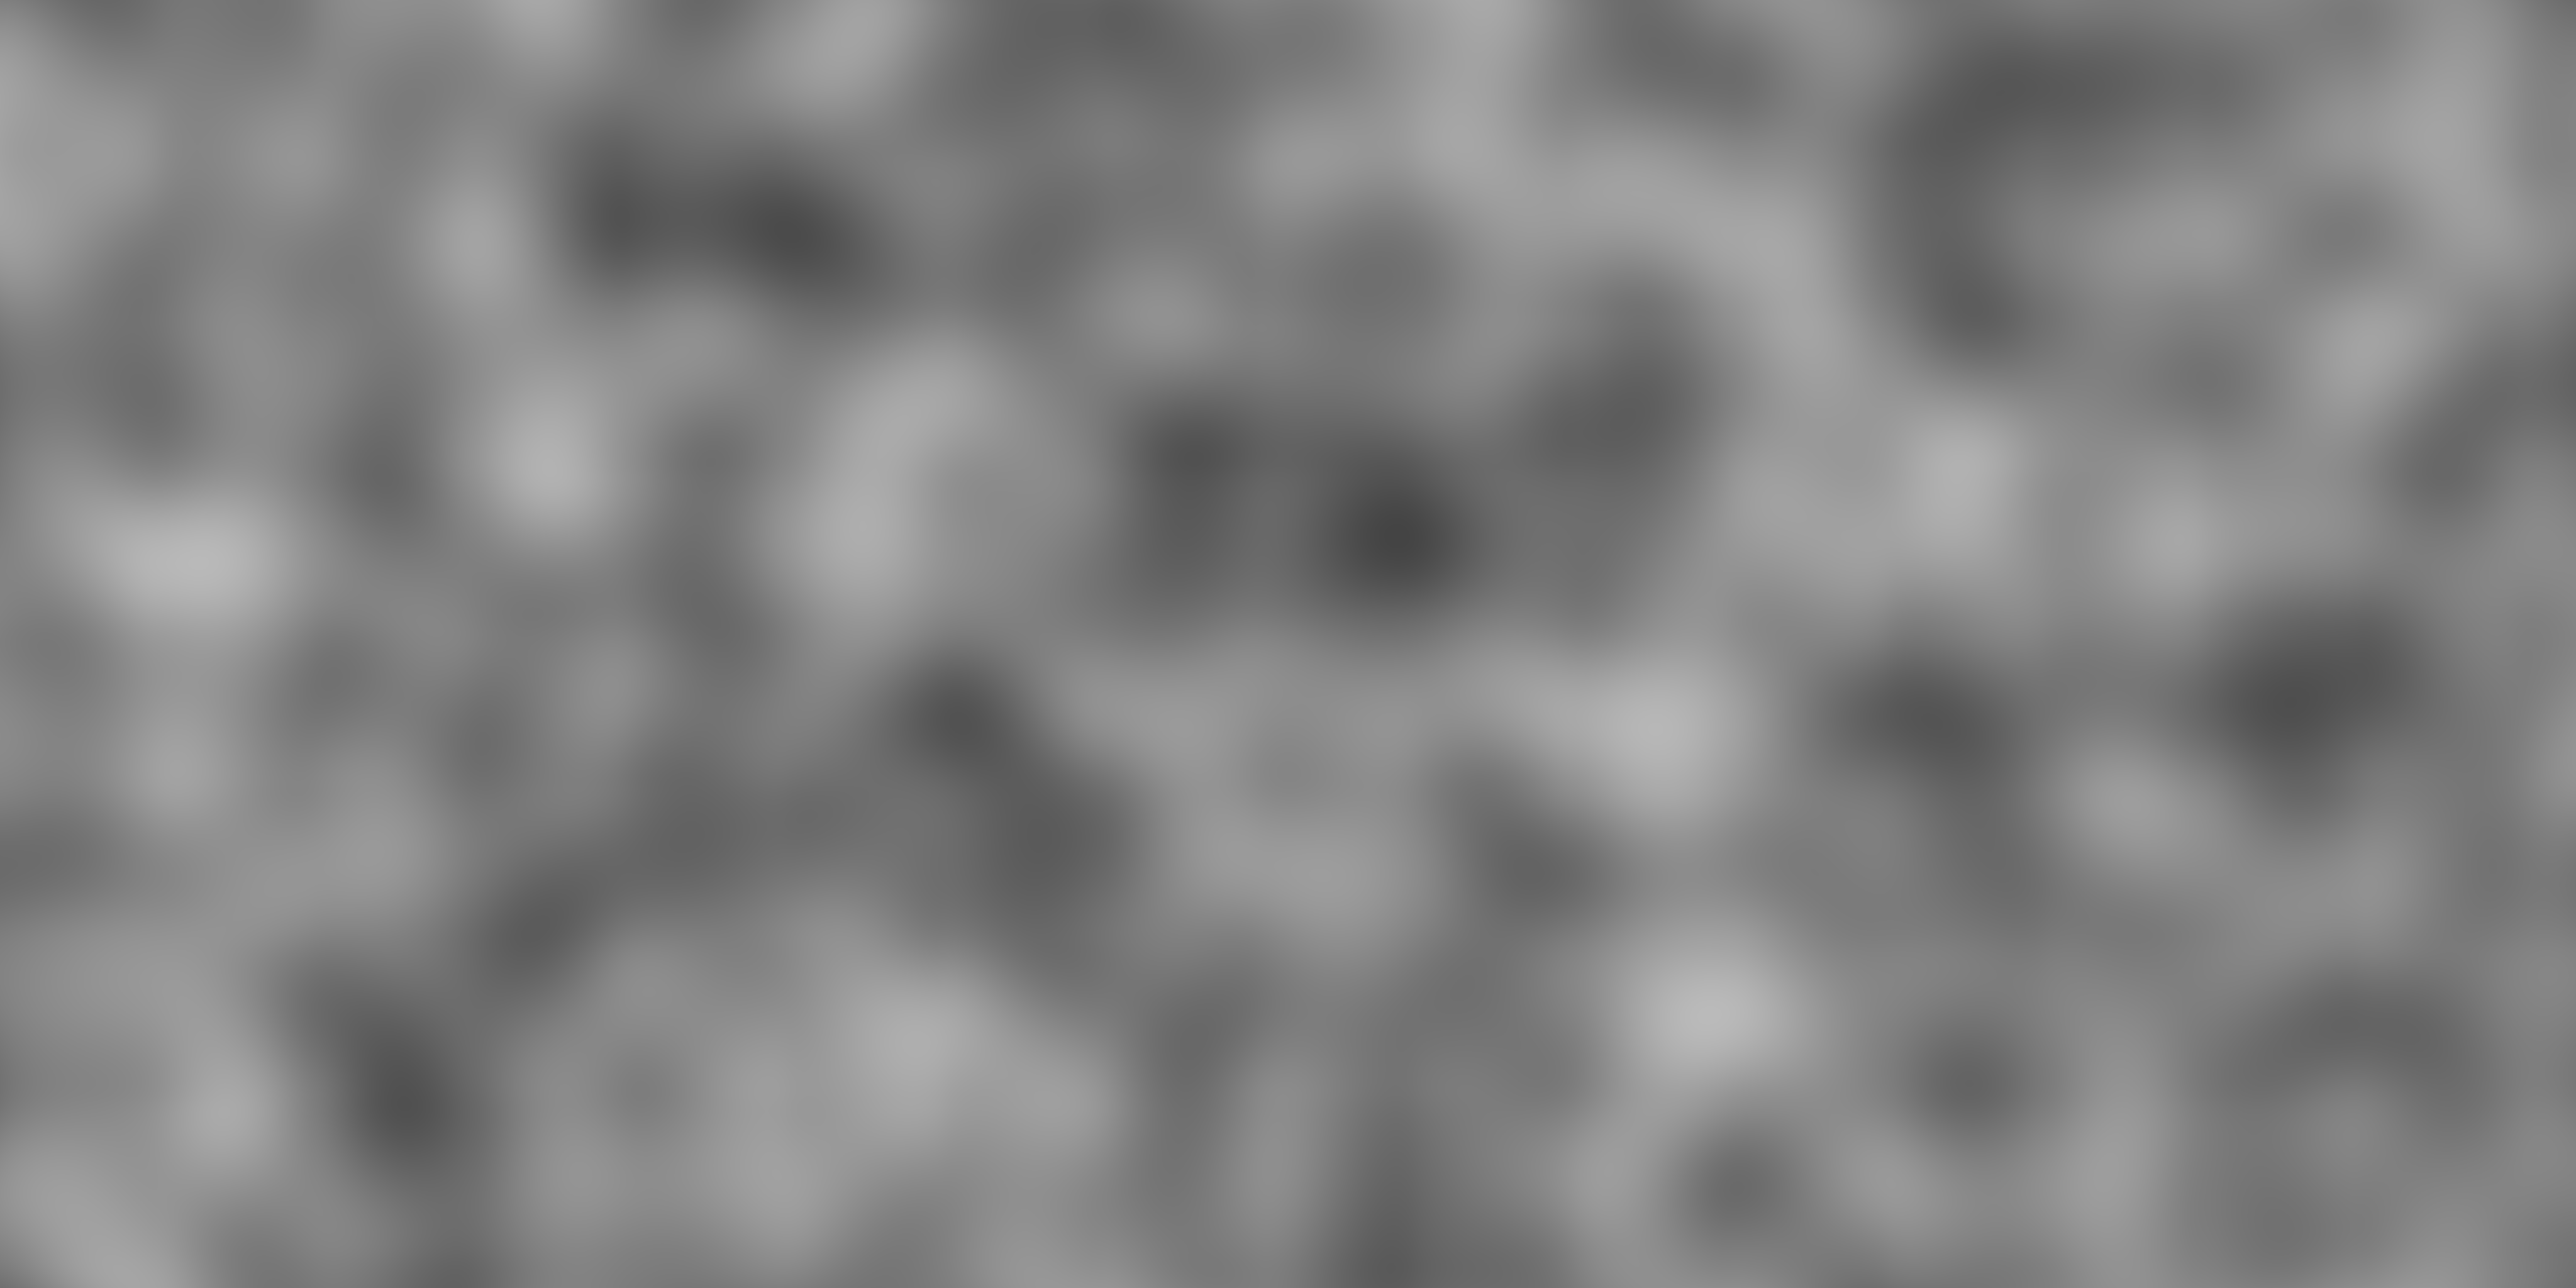
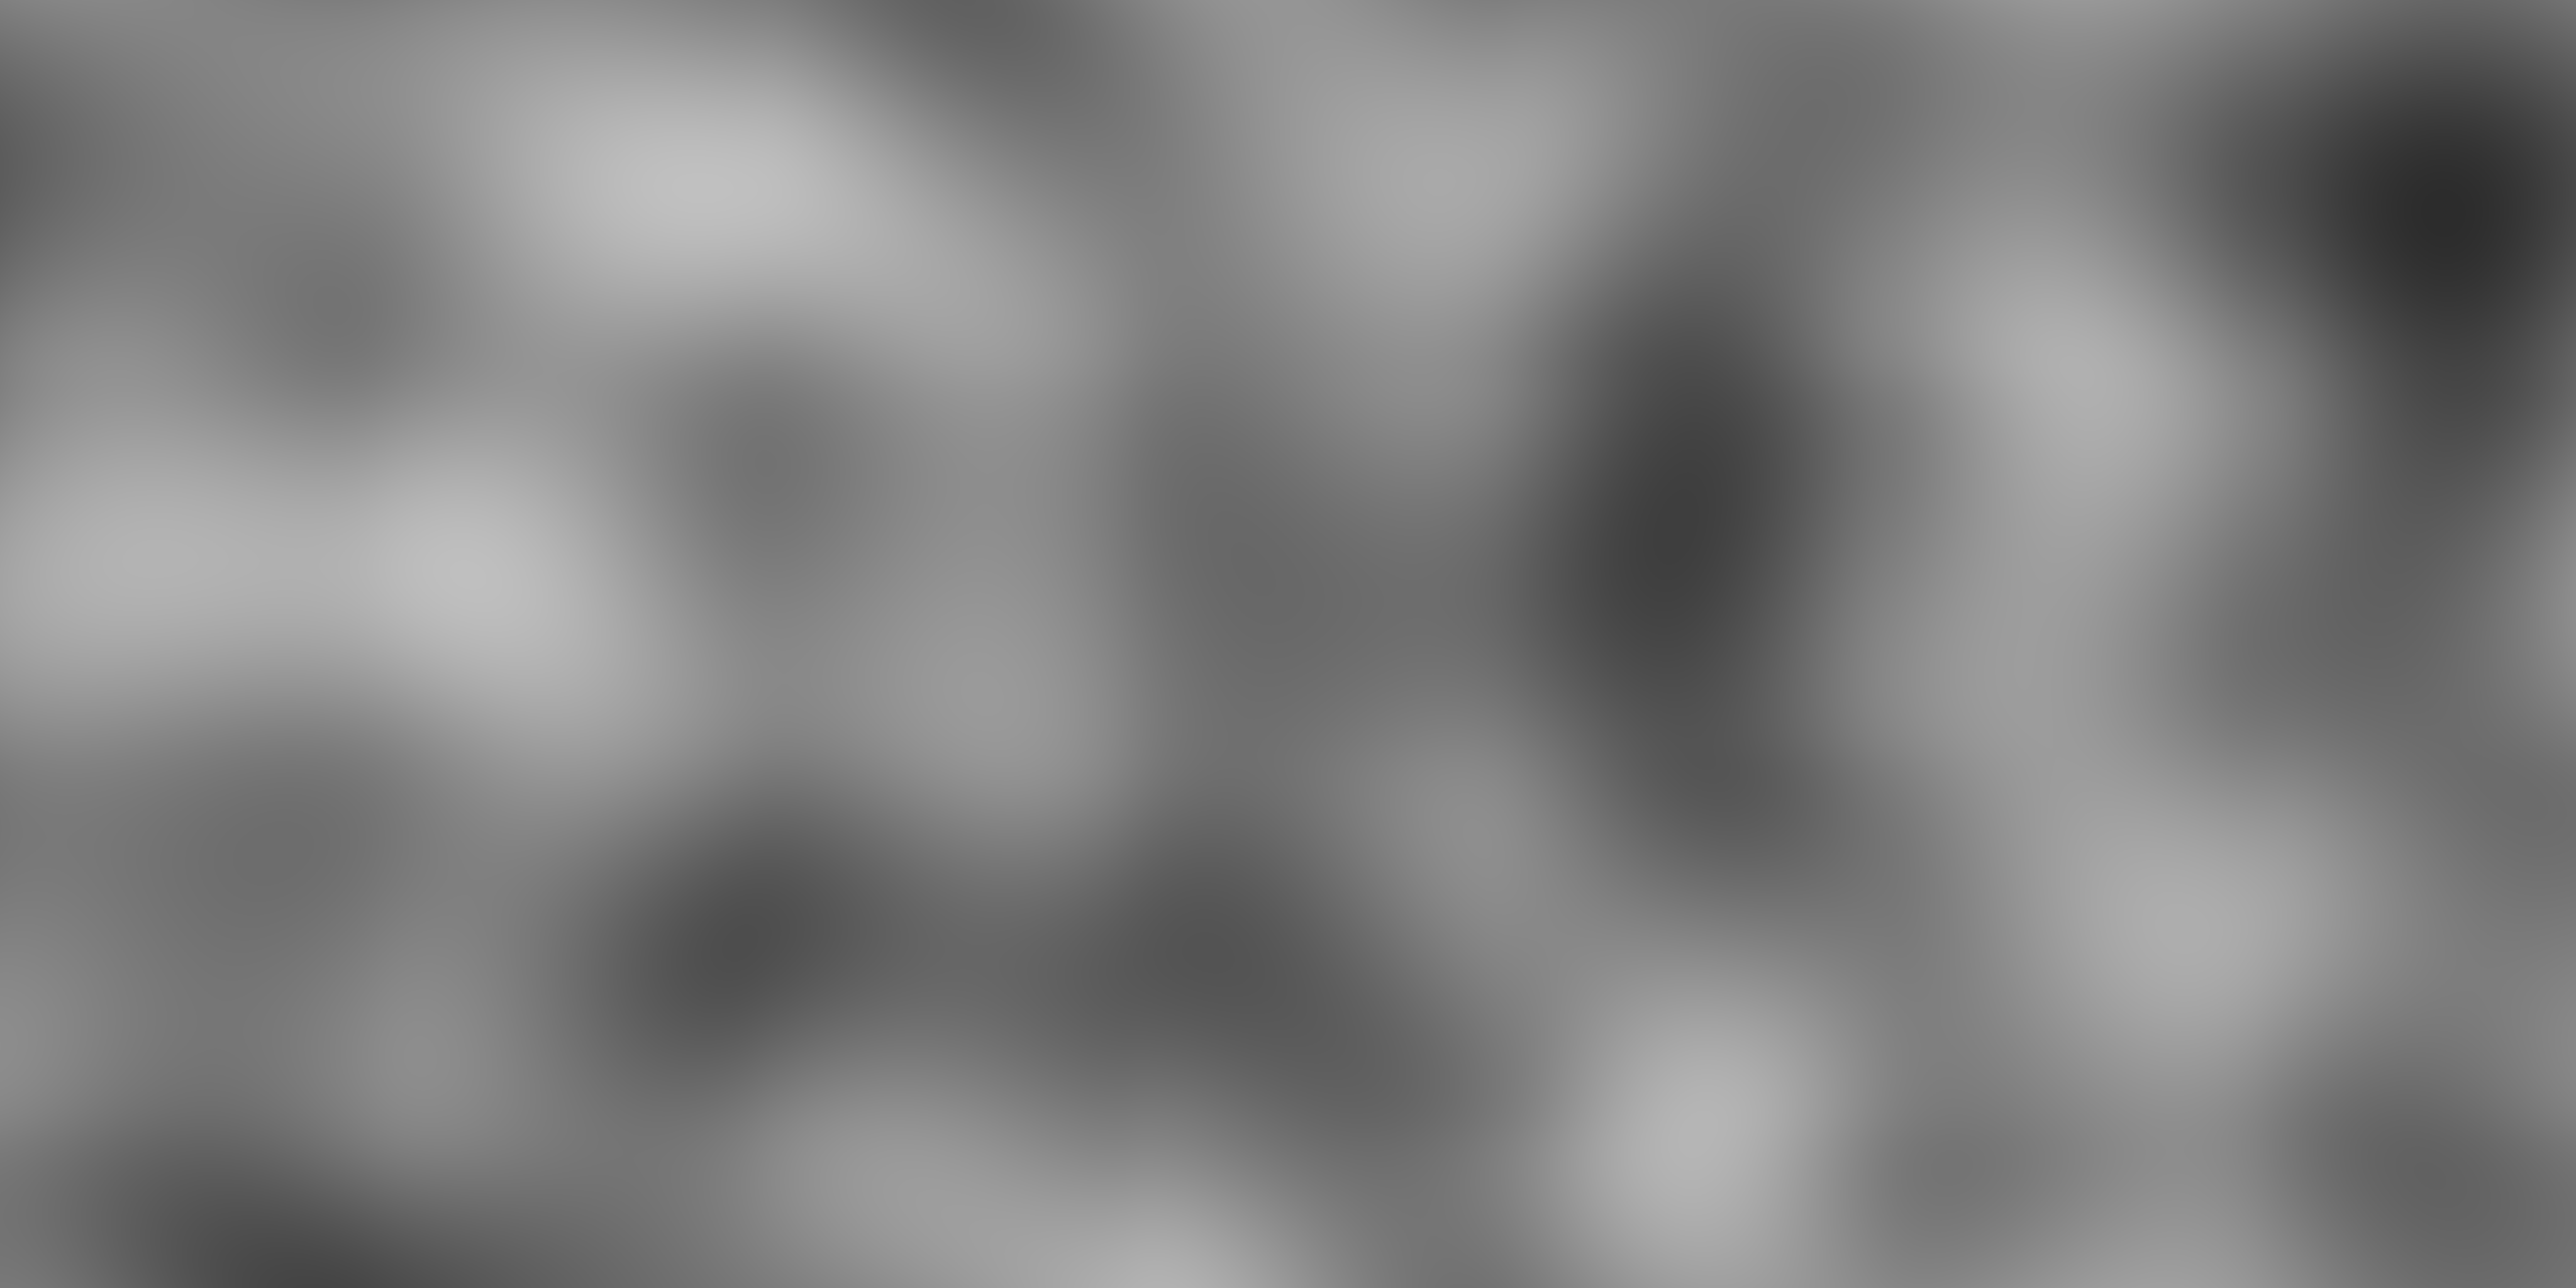
Render as a 3d mesh, finally looks good

diff --git a/src/main.rs b/src/main.rs
@@ -1,23 +1,31 @@
 use bevy::{
     asset::RenderAssetUsages,
-    math::vec3,
+    pbr::MaterialPlugin,
     prelude::*,
-    render::render_resource::{Extent3d, TextureDimension, TextureFormat, TextureUsages},
-    sprite::Material2dPlugin,
+    render::{
+        mesh::Indices,
+        render_resource::{
+            Extent3d, PrimitiveTopology, TextureDimension, TextureFormat, TextureUsages,
+        },
+    },
 };
+use bevy_panorbit_camera::{PanOrbitCamera, PanOrbitCameraPlugin};
 use compute::{ComputeTerrainImages, TerrainComputePlugin};
-use map_material::MapMaterial;
 use noise::{Fbm, NoiseFn, Perlin};
+use terrain_material::TerrainMaterial;
+use water_material::WaterMaterial;
 mod compute;
-mod map_material;
+mod terrain_material;
+mod water_material;
 
 const WINDOW_WIDTH: u32 = 2048;
 const WINDOW_HEIGHT: u32 = 1024;
 const TERRAINMAP_WIDTH: u32 = 4096;
 const TERRAINMAP_HEIGHT: u32 = 2048;
+const TERRAIN_HEIGHT_SCALE: f32 = 200.0;
 
-// Toggle: true = procedural FBM noise, false = load perlin2.png
-const USE_FBM: bool = false;
+// Toggle: true = procedural FBM noise, false = load perlin.png
+const USE_FBM: bool = true;
 
 fn main() {
     App::new()
@@ -33,8 +41,10 @@ fn main() {
                     ..default()
                 })
                 .set(ImagePlugin::default_nearest()),
-            Material2dPlugin::<MapMaterial>::default(),
+            MaterialPlugin::<TerrainMaterial>::default(),
+            MaterialPlugin::<WaterMaterial>::default(),
             TerrainComputePlugin,
+            PanOrbitCameraPlugin,
         ))
         .init_state::<LoadingState>()
         .init_resource::<HeightMapTextureHandle>()
@@ -57,21 +67,18 @@ pub enum LoadingState {
 #[derive(Resource, Default)]
 struct HeightMapTextureHandle(Handle<Image>);
 
-fn load_terrainmap(
-    asset_server: Res<AssetServer>,
-    mut height_map_texture_handle: ResMut<HeightMapTextureHandle>,
-) {
+fn load_terrainmap(asset_server: Res<AssetServer>, mut handle: ResMut<HeightMapTextureHandle>) {
     if !USE_FBM {
-        height_map_texture_handle.0 = asset_server.load("perlin2.png");
+        handle.0 = asset_server.load("perlin.png");
     }
 }
 
 fn check_for_loaded(
-    height_map_texture_handle: Res<HeightMapTextureHandle>,
+    handle: Res<HeightMapTextureHandle>,
     images: Res<Assets<Image>>,
     mut next_state: ResMut<NextState<LoadingState>>,
 ) {
-    if USE_FBM || images.get(&height_map_texture_handle.0).is_some() {
+    if USE_FBM || images.get(&handle.0).is_some() {
         next_state.set(LoadingState::Loaded);
     }
 }
@@ -79,20 +86,21 @@ fn check_for_loaded(
 fn generate_heightmap() -> Vec<f32> {
     let fbm = Fbm::<Perlin>::new(42);
     let scale = 8.0 / TERRAINMAP_WIDTH as f64;
-
     let mut heights = vec![0f32; (TERRAINMAP_WIDTH * TERRAINMAP_HEIGHT) as usize];
     let mut min_h = f64::MAX;
     let mut max_h = f64::MIN;
-
     for y in 0..TERRAINMAP_HEIGHT {
         for x in 0..TERRAINMAP_WIDTH {
             let h = fbm.get([x as f64 * scale, y as f64 * scale]);
             heights[(y * TERRAINMAP_WIDTH + x) as usize] = h as f32;
-            if h < min_h { min_h = h; }
-            if h > max_h { max_h = h; }
+            if h < min_h {
+                min_h = h;
+            }
+            if h > max_h {
+                max_h = h;
+            }
         }
     }
-
     let range = (max_h - min_h) as f32;
     for h in &mut heights {
         *h = (*h - min_h as f32) / range;
@@ -100,19 +108,61 @@ fn generate_heightmap() -> Vec<f32> {
     heights
 }
 
+fn create_terrain_mesh() -> Mesh {
+    let w = TERRAINMAP_WIDTH;
+    let h = TERRAINMAP_HEIGHT;
+    let x_quads = w - 1;
+    let z_quads = h - 1;
+
+    let vert_count = (w * h) as usize;
+    let mut positions: Vec<[f32; 3]> = Vec::with_capacity(vert_count);
+    let mut normals: Vec<[f32; 3]> = Vec::with_capacity(vert_count);
+    let mut uvs: Vec<[f32; 2]> = Vec::with_capacity(vert_count);
+    let mut indices: Vec<u32> = Vec::with_capacity((x_quads * z_quads * 6) as usize);
+
+    for z in 0..h {
+        for x in 0..w {
+            // World XZ: pixel (0,0) → (-W/2, -H/2), pixel (W-1,H-1) → (W/2-1, H/2-1)
+            positions.push([x as f32 - w as f32 / 2.0, 0.0, z as f32 - h as f32 / 2.0]);
+            normals.push([0.0, 1.0, 0.0]);
+            // UV samples the centre of each texel
+            uvs.push([(x as f32 + 0.5) / w as f32, (z as f32 + 0.5) / h as f32]);
+        }
+    }
+
+    for z in 0..z_quads {
+        for x in 0..x_quads {
+            let tl = z * w + x;
+            let tr = tl + 1;
+            let bl = tl + w;
+            let br = bl + 1;
+            indices.extend_from_slice(&[tl, bl, tr, tr, bl, br]);
+        }
+    }
+
+    let mut mesh = Mesh::new(
+        PrimitiveTopology::TriangleList,
+        RenderAssetUsages::RENDER_WORLD,
+    );
+    mesh.insert_attribute(Mesh::ATTRIBUTE_POSITION, positions);
+    mesh.insert_attribute(Mesh::ATTRIBUTE_NORMAL, normals);
+    mesh.insert_attribute(Mesh::ATTRIBUTE_UV_0, uvs);
+    mesh.insert_indices(Indices::U32(indices));
+    mesh
+}
+
 fn setup_sim(
     mut commands: Commands,
-    height_map_texture_handle: Res<HeightMapTextureHandle>,
+    handle: Res<HeightMapTextureHandle>,
     mut images: ResMut<Assets<Image>>,
     mut meshes: ResMut<Assets<Mesh>>,
-    mut materials: ResMut<Assets<MapMaterial>>,
+    mut terrain_materials: ResMut<Assets<TerrainMaterial>>,
+    mut water_materials: ResMut<Assets<WaterMaterial>>,
 ) {
-    let heights: Vec<f32> = if USE_FBM {
+    let raw_heights: Vec<f32> = if USE_FBM {
         generate_heightmap()
     } else {
-        let heightmap = images
-            .get(&height_map_texture_handle.0)
-            .expect("Heightmap not found with handle");
+        let heightmap = images.get(&handle.0).expect("Heightmap not found");
         (0..TERRAINMAP_HEIGHT)
             .flat_map(|y| (0..TERRAINMAP_WIDTH).map(move |x| (x, y)))
             .map(|(x, y)| heightmap.get_color_at(x, y).unwrap().to_linear().red)
@@ -134,7 +184,7 @@ fn setup_sim(
         TextureUsages::COPY_DST | TextureUsages::STORAGE_BINDING | TextureUsages::TEXTURE_BINDING;
     for y in 0..TERRAINMAP_HEIGHT {
         for x in 0..TERRAINMAP_WIDTH {
-            let h = heights[(y * TERRAINMAP_WIDTH + x) as usize];
+            let h = raw_heights[(y * TERRAINMAP_WIDTH + x) as usize] * TERRAIN_HEIGHT_SCALE;
             terrainmap
                 .set_color_at(x, y, Color::linear_rgba(h, 0.0, 0.0, 0.0))
                 .ok();
@@ -175,12 +225,34 @@ fn setup_sim(
     let velocitymap_a = images.add(velocitymap.clone());
     let velocitymap_b = images.add(velocitymap);
 
-    let quad_handle = meshes.add(Rectangle::new(2., 1.));
-    let material_handle = materials.add(MapMaterial {
-        terrainmap: terrainmap_a.clone(),
-        flowmap: flowmap_a.clone(),
-        velocitymap: velocitymap_a.clone(),
-    });
+    let grid = meshes.add(create_terrain_mesh());
+
+    commands.spawn((
+        Mesh3d(grid.clone()),
+        MeshMaterial3d(terrain_materials.add(TerrainMaterial {
+            terrainmap: terrainmap_a.clone(),
+        })),
+    ));
+
+    commands.spawn((
+        Mesh3d(grid),
+        MeshMaterial3d(water_materials.add(WaterMaterial {
+            terrainmap: terrainmap_a.clone(),
+        })),
+    ));
+
+    commands.spawn((
+        Camera3d::default(),
+        Projection::Perspective(PerspectiveProjection {
+            fov: std::f32::consts::FRAC_PI_3,
+            near: 1.0,
+            far: 100_000.0,
+            ..default()
+        }),
+        Transform::from_xyz(0.0, 2000.0, 3000.0).looking_at(Vec3::new(0.0, 200.0, 0.0), Vec3::Y),
+        PanOrbitCamera::default(),
+    ));
+
     commands.insert_resource(ComputeTerrainImages {
         terrainmap_a,
         flowmap_a,
@@ -189,10 +261,4 @@ fn setup_sim(
         flowmap_b,
         velocitymap_b,
     });
-    commands.spawn((
-        Mesh2d(quad_handle),
-        MeshMaterial2d(material_handle),
-        Transform::from_xyz(0.0, 0.0, 0.0).with_scale(vec3(1024., 1024., 1.)),
-    ));
-    commands.spawn(Camera2d);
 }

diff --git a/src/water_material.rs b/src/water_material.rs
@@ -1,0 +1,26 @@
+use bevy::{
+    pbr::Material,
+    prelude::*,
+    render::alpha::AlphaMode,
+    reflect::TypePath,
+    render::render_resource::{AsBindGroup, ShaderRef},
+};
+
+#[derive(Asset, AsBindGroup, TypePath, Debug, Clone)]
+pub struct WaterMaterial {
+    #[texture(0)]
+    #[sampler(1)]
+    pub terrainmap: Handle<Image>,
+}
+
+impl Material for WaterMaterial {
+    fn vertex_shader() -> ShaderRef {
+        "water.wgsl".into()
+    }
+    fn fragment_shader() -> ShaderRef {
+        "water.wgsl".into()
+    }
+    fn alpha_mode(&self) -> AlphaMode {
+        AlphaMode::Blend
+    }
+}

diff --git a/src/terrain_material.rs b/src/terrain_material.rs
@@ -1,0 +1,22 @@
+use bevy::{
+    pbr::Material,
+    prelude::*,
+    reflect::TypePath,
+    render::render_resource::{AsBindGroup, ShaderRef},
+};
+
+#[derive(Asset, AsBindGroup, TypePath, Debug, Clone)]
+pub struct TerrainMaterial {
+    #[texture(0)]
+    #[sampler(1)]
+    pub terrainmap: Handle<Image>,
+}
+
+impl Material for TerrainMaterial {
+    fn vertex_shader() -> ShaderRef {
+        "terrain.wgsl".into()
+    }
+    fn fragment_shader() -> ShaderRef {
+        "terrain.wgsl".into()
+    }
+}

diff --git a/README.md b/README.md
@@ -1,5 +1,7 @@
 # Ymir-GPU
 
+![showcase](showcase.png)
+
 This is a implementation of *Fast Hydraulic Erosion Simulation and Visualization on
 GPU* by Xing Mei, Philippe Decaudin and Bao-Gang Hu. 
 https://inria.hal.science/inria-00402079/document
@@ -8,15 +10,4 @@ This implementation is written in Rust using Bevy and performs a hydraulic erosi
 
 I planned to expand this to include some basic initial map generation simulating tectonic plates and then adding a wind, rain and climate / biome simulation step following the hydraulic erosion step.
 
-### TODO and notes to self
-
-1. Grid based GPU implementation of hydraulic erosion https://inria.hal.science/inria-00402079/document
-
-- Loop around sides
-- Preserve total amount of water (evaporation is added to rain) to maintain oceans
-
-2. Hardcoded prevailing winds
-3. Evoporation from 1. moves according to 2. Only dropping water depending on air pressure / terrain (rain shadows)
-4. Moisture map
-
-Biome map using Whittaker biome map
+The actual erosion produced is not great, parameters need further tweaking. But this was mainly an experiment in learning how to use compute shaders for this kind of multi-step task.
